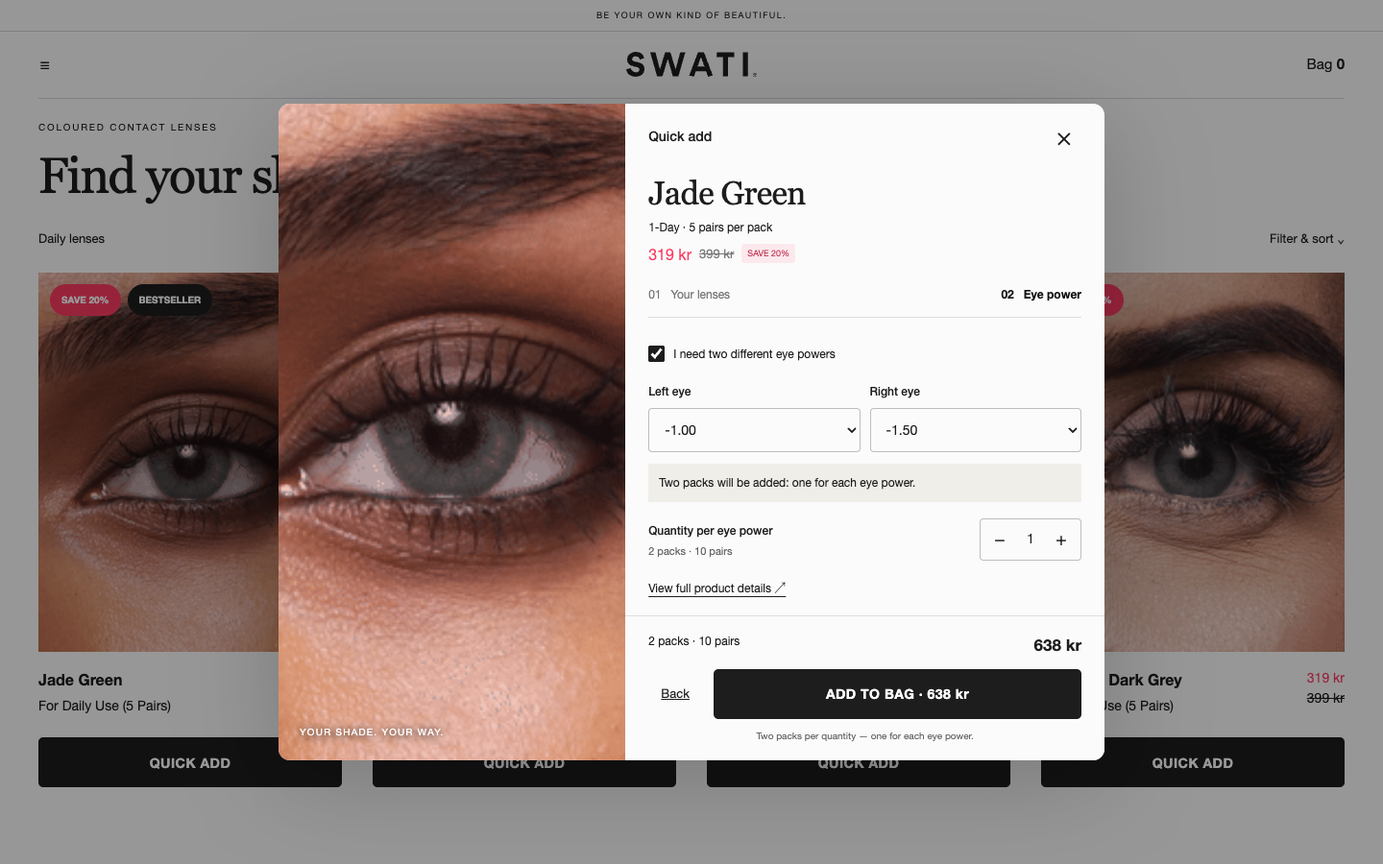
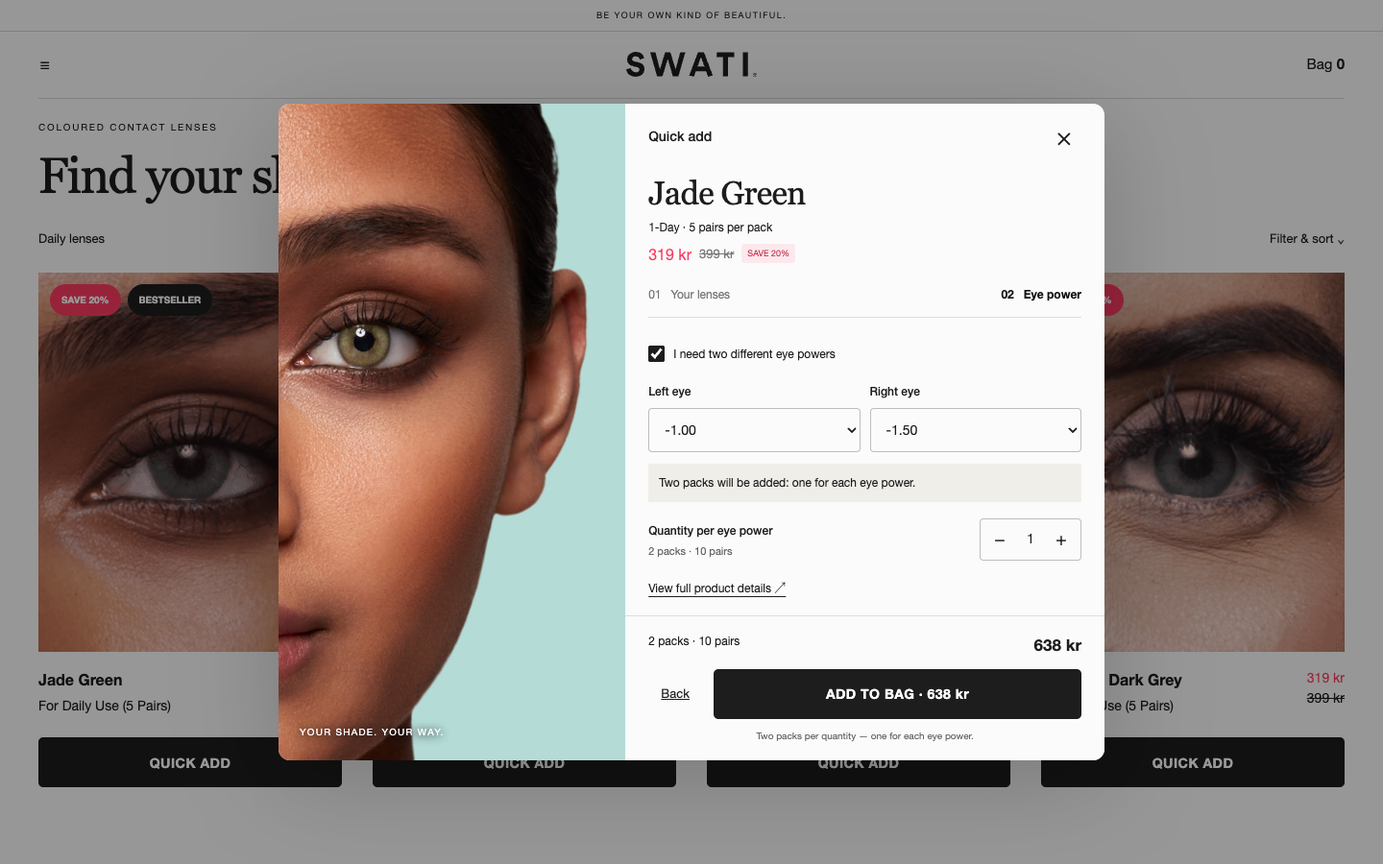
Use half-face hover photos in concept C and badge six-month option

Changed region(s): [[0.1875, 0.0933, 0.4688, 0.9022]]

diff --git a/index.html b/index.html
@@ -4,20 +4,20 @@
 
 html{scroll-behavior:smooth;scroll-padding-top:90px}.jumpnav{position:sticky;top:0;z-index:20;display:flex;justify-content:center;gap:7px;padding:12px 20px;background:#f4f3eff5;backdrop-filter:blur(12px);border-bottom:1px solid #d6d5cf;overflow-x:auto}.jumpnav a{white-space:nowrap;text-decoration:none;font-size:12px;padding:8px 12px;border-radius:5px}.jumpnav a:hover,.jumpnav a:focus-visible{background:#e5eadf}.jumpnav span{color:#777;font-size:10px;margin-right:5px}.section-heading{display:flex;justify-content:space-between;align-items:center;border-top:1px solid #cecec7;padding-top:35px;margin-bottom:10px}.section-heading h2{margin-top:8px}.section-heading p{font-size:12px;color:#666}.hero{padding-top:30px}.confirmation{display:grid;grid-template-columns:1fr 2fr;gap:35px;align-items:center;margin-top:35px}.confirmation img{width:100%;border-radius:12px;border:1px solid #ddd}.confirmation>div:last-child{max-width:520px}.confirmation .launch{display:inline-block}main img{cursor:zoom-in}.zoom{padding:48px 10px 10px;border:0;border-radius:10px;max-width:96vw;max-height:96dvh;background:#f4f3ef}.zoom::backdrop{background:#000b}.zoom img{display:block;max-width:91vw;max-height:83dvh;width:auto;height:auto;object-fit:contain}.zoom button{position:absolute;top:8px;right:12px;background:transparent;border:0;font:28px Arial;cursor:pointer;width:36px;height:36px}.zoom p{position:absolute;top:13px;left:16px;font-size:12px;margin:0}.section .desktop{margin-bottom:40px}a:focus-visible,button:focus-visible{outline:3px solid #56796c;outline-offset:3px}
 @media(max-width:800px){.jumpnav{justify-content:flex-start;padding:9px 12px}.jumpnav a{font-size:11px;padding:6px 8px}.hero{padding-top:20px}.section-heading{display:block}.confirmation{grid-template-columns:1fr}.confirmation img{max-width:390px}.cards{gap:24px 16px}.state-grid{gap:35px}.zoom img{max-width:88vw}.zoom p{max-width:75%;white-space:nowrap;overflow:hidden;text-overflow:ellipsis}}
-</style></head><body><header><img src="assets/logo.svg" alt="SWATI"><span class="kicker">CRO EXPLORATION / 18 SEPTEMBER 2026</span></header><nav class="jumpnav" aria-label="Showcase sections"><a href="#mobile-concepts"><span>01</span> Mobile popups</a><a href="#card-buttons"><span>02</span> Card buttons</a><a href="#desktop-layouts"><span>03</span> Desktop popups</a><a href="#selection-states"><span>04</span> Selection states</a><a href="#references"><span>05</span> References</a><a href="#test-plan"><span>06</span> Test recommendation</a></nav><main>
+</style></head><body><header><img src="assets/logo.svg?v=3" alt="SWATI"><span class="kicker">CRO EXPLORATION / 18 SEPTEMBER 2026</span></header><nav class="jumpnav" aria-label="Showcase sections"><a href="#mobile-concepts"><span>01</span> Mobile popups</a><a href="#card-buttons"><span>02</span> Card buttons</a><a href="#desktop-layouts"><span>03</span> Desktop popups</a><a href="#selection-states"><span>04</span> Selection states</a><a href="#references"><span>05</span> References</a><a href="#test-plan"><span>06</span> Test recommendation</a></nav><main>
 <div class="hero"><div><div class="kicker">Collection → Configuration → Bag</div><h1>A shorter path<br>to their shade.</h1><p class="intro">Three quick-add experiences. One familiar SWATI card. All the essential lens choices, without leaving the collection.</p></div><aside class="recommend"><div class="kicker">Recommended first test</div><b>Current journey vs. compact selector</b><p>Replace “Shop now” with “Quick add”. Keep the image and name linked to the PDP. Test completed purchases and revenue, not just more adds.</p><a href="#test-plan">See the test recommendation ↓</a></aside></div>
 <section id="mobile-concepts" class="mobile-section"><div class="section-heading"><div><div class="kicker">01 / Mobile popups</div><h2>All three alternatives.</h2></div><p>Click a mockup to enlarge it.<br>Use “Try concept” to explore the flow.</p></div><div class="concepts">
-<article class="concept"><div class="caption"><span class="number">A</span><h3>Compact selector</h3><p>A bottom sheet on mobile. A centred modal on desktop. The clearest starting point.</p></div><a href="prototype.html?concept=compact&open=1"><img class="screen" src="previews/compact-mobile.png" alt="Concept A: compact mobile quick-add selector"></a><div class="actions"><a class="launch" href="prototype.html?concept=compact">Try concept A →</a><a href="previews/compact-desktop.png">Desktop</a><a href="prototype.html?concept=compact&open=1&state=dual">Two powers</a></div></article>
-<article class="concept"><div class="caption"><span class="number">B</span><h3>Roomier drawer</h3><p>More space to review the choices. A side drawer on desktop and a tall sheet on mobile.</p></div><a href="prototype.html?concept=drawer&open=1"><img class="screen" src="previews/drawer-mobile.png" alt="Concept B: tall mobile product drawer"></a><div class="actions"><a class="launch" href="prototype.html?concept=drawer">Try concept B →</a><a href="previews/drawer-desktop.png">Desktop</a><a href="prototype.html?concept=drawer&open=1&state=dual">Two powers</a></div></article>
-<article class="concept"><div class="caption"><span class="number">C</span><h3>Guided selection</h3><p>Choose lenses, then eye power. Less to process at once, with one extra step to complete.</p></div><a href="prototype.html?concept=guided&open=1"><img class="screen" src="previews/guided-mobile.png" alt="Concept C: first step of guided lens selection"></a><div class="actions"><a class="launch" href="prototype.html?concept=guided">Try concept C →</a><a href="previews/guided-desktop.png">Desktop</a><a href="prototype.html?concept=guided&open=1&state=ready">Step two</a></div></article>
+<article class="concept"><div class="caption"><span class="number">A</span><h3>Compact selector</h3><p>A bottom sheet on mobile. A centred modal on desktop. The clearest starting point.</p></div><a href="prototype.html?v=3&concept=compact&open=1"><img class="screen" src="previews/compact-mobile.png?v=3" alt="Concept A: compact mobile quick-add selector"></a><div class="actions"><a class="launch" href="prototype.html?v=3&concept=compact">Try concept A →</a><a href="previews/compact-desktop.png?v=3">Desktop</a><a href="prototype.html?v=3&concept=compact&open=1&state=dual">Two powers</a></div></article>
+<article class="concept"><div class="caption"><span class="number">B</span><h3>Roomier drawer</h3><p>More space to review the choices. A side drawer on desktop and a tall sheet on mobile.</p></div><a href="prototype.html?v=3&concept=drawer&open=1"><img class="screen" src="previews/drawer-mobile.png?v=3" alt="Concept B: tall mobile product drawer"></a><div class="actions"><a class="launch" href="prototype.html?v=3&concept=drawer">Try concept B →</a><a href="previews/drawer-desktop.png?v=3">Desktop</a><a href="prototype.html?v=3&concept=drawer&open=1&state=dual">Two powers</a></div></article>
+<article class="concept"><div class="caption"><span class="number">C</span><h3>Guided selection</h3><p>Choose lenses, then eye power. Less to process at once, with one extra step to complete.</p></div><a href="prototype.html?v=3&concept=guided&open=1"><img class="screen" src="previews/guided-mobile.png?v=3" alt="Concept C: first step of guided lens selection"></a><div class="actions"><a class="launch" href="prototype.html?v=3&concept=guided">Try concept C →</a><a href="previews/guided-desktop.png?v=3">Desktop</a><a href="prototype.html?v=3&concept=guided&open=1&state=ready">Step two</a></div></article>
 </div></section>
-<section class="section" id="card-buttons"><div class="kicker">02 / Card buttons</div><h2>Three ways to open it.</h2><p>Choose the popup and its entry separately. The three popup concepts above all use the same labelled button.</p><div class="cards"><div class="current"><h3>Control · current card</h3><img src="assets/current-card.png" alt="User-supplied current SWATI product card"><p>Shop now opens the PDP. Supplied screenshot.</p></div><div><h3>1 · Replace the button</h3><img src="previews/trigger-replace.png" alt="Quick Add primary button"><p>Highest visibility, same footprint. Image and title retain the PDP route.</p><a href="prototype.html?trigger=replace">Try this entry ↗</a></div><div><h3>2 · Keep both actions</h3><img src="previews/trigger-split.png" alt="Shop Now and Quick Add buttons"><p>Both journeys are explicit. Adds visual weight and mobile card height.</p><a href="prototype.html?trigger=split">Try this entry ↗</a></div><div><h3>3 · Add a permanent plus</h3><img src="previews/trigger-plus.png" alt="Plus button over product photo with Shop Now below"><p>Keeps the current CTA. Less explicit, and places a control over the eye photo.</p><a href="prototype.html?trigger=plus">Try this entry ↗</a></div></div></section>
-<section class="section" id="desktop-layouts"><div class="kicker">03 / Desktop popups</div><h2>Same choices. Different amount of space.</h2><h3>A · Centred selector</h3><img class="desktop" src="previews/compact-desktop.png" alt="Compact desktop modal"><h3>B · Side drawer</h3><img class="desktop" src="previews/drawer-desktop.png" alt="Desktop quick-add drawer"><h3>C · Two-step modal</h3><img class="desktop" src="previews/guided-desktop.png" alt="Wide guided desktop modal with eye image"></section>
-<section class="section" id="selection-states"><div class="kicker">04 / Selection states</div><h2>Two powers means two packs.</h2><p>Show that consequence before adding. Keep the total visible, and confirm exactly what went into the bag.</p><div class="state-grid"><div><h3>A · Separate eye powers</h3><img src="previews/compact-mobile-dual.png" alt="Two eye powers and a combined 638 kr total"></div><div><h3>B · Separate eye powers</h3><img src="previews/drawer-mobile-dual.png" alt="Drawer showing separate left and right eye powers"></div><div><h3>C · Second step</h3><img src="previews/guided-mobile-dual.png" alt="Guided selection eye-power step"></div></div><div class="confirmation"><div><h3>After adding · Confirmation</h3><img src="previews/compact-mobile-success.png" alt="Mock confirmation showing four packs after quantity changed to two per eye"></div><div><h3>Review before returning to the collection.</h3><p>Every concept supports separate left and right powers. The summary shows the selected shade, duration, pack count and combined total.</p><p>This example follows increasing quantity to two per eye: four packs total.</p><a class="launch" href="prototype.html?concept=compact&open=1&state=dual">Try the two-power flow →</a></div></div><p class="note">Confirmation example follows increasing quantity to two per eye: four packs total. Production should hand off to SWATI’s existing cart drawer. This prototype never changes a real cart.</p></section>
-<section class="section" id="references"><div class="kicker">05 / Reference takeaways</div><h2>Borrow the right behaviour.</h2><div class="table"><div><h3>Meridian · options first</h3><p>The sampled trimmer opens a product modal with colour choices before adding. This is the closest match to SWATI’s need.</p><a href="https://www.meridiangrooming.com/collections/trimmers">Reference ↗</a> · <a href="research/meridian-quick.png">Observed modal</a></div><div><h3>Javvy · immediate feedback</h3><p>The sampled item goes straight into a cart drawer. Borrow its clear confirmation; SWATI needs eye-power selection before that point.</p><a href="https://javvycoffee.com/">Reference ↗</a> · <a href="research/javvy-quick.png">Observed drawer</a></div><div><h3>True Classic · clear choices</h3><p>The rendered configurator exposes size, length and pack choices, and asks for a size before adding. Its collection popup was not separately verified.</p><a href="https://www.trueclassictees.com/">Reference ↗</a></div></div></section>
+<section class="section" id="card-buttons"><div class="kicker">02 / Card buttons</div><h2>Three ways to open it.</h2><p>Choose the popup and its entry separately. The three popup concepts above all use the same labelled button.</p><div class="cards"><div class="current"><h3>Control · current card</h3><img src="assets/current-card.png?v=3" alt="User-supplied current SWATI product card"><p>Shop now opens the PDP. Supplied screenshot.</p></div><div><h3>1 · Replace the button</h3><img src="previews/trigger-replace.png?v=3" alt="Quick Add primary button"><p>Highest visibility, same footprint. Image and title retain the PDP route.</p><a href="prototype.html?v=3&trigger=replace">Try this entry ↗</a></div><div><h3>2 · Keep both actions</h3><img src="previews/trigger-split.png?v=3" alt="Shop Now and Quick Add buttons"><p>Both journeys are explicit. Adds visual weight and mobile card height.</p><a href="prototype.html?v=3&trigger=split">Try this entry ↗</a></div><div><h3>3 · Add a permanent plus</h3><img src="previews/trigger-plus.png?v=3" alt="Plus button over product photo with Shop Now below"><p>Keeps the current CTA. Less explicit, and places a control over the eye photo.</p><a href="prototype.html?v=3&trigger=plus">Try this entry ↗</a></div></div></section>
+<section class="section" id="desktop-layouts"><div class="kicker">03 / Desktop popups</div><h2>Same choices. Different amount of space.</h2><h3>A · Centred selector</h3><img class="desktop" src="previews/compact-desktop.png?v=3" alt="Compact desktop modal"><h3>B · Side drawer</h3><img class="desktop" src="previews/drawer-desktop.png?v=3" alt="Desktop quick-add drawer"><h3>C · Two-step modal</h3><img class="desktop" src="previews/guided-desktop.png?v=3" alt="Wide guided desktop modal with eye image"></section>
+<section class="section" id="selection-states"><div class="kicker">04 / Selection states</div><h2>Two powers means two packs.</h2><p>Show that consequence before adding. Keep the total visible, and confirm exactly what went into the bag.</p><div class="state-grid"><div><h3>A · Separate eye powers</h3><img src="previews/compact-mobile-dual.png?v=3" alt="Two eye powers and a combined 638 kr total"></div><div><h3>B · Separate eye powers</h3><img src="previews/drawer-mobile-dual.png?v=3" alt="Drawer showing separate left and right eye powers"></div><div><h3>C · Second step</h3><img src="previews/guided-mobile-dual.png?v=3" alt="Guided selection eye-power step"></div></div><div class="confirmation"><div><h3>After adding · Confirmation</h3><img src="previews/compact-mobile-success.png?v=3" alt="Mock confirmation showing four packs after quantity changed to two per eye"></div><div><h3>Review before returning to the collection.</h3><p>Every concept supports separate left and right powers. The summary shows the selected shade, duration, pack count and combined total.</p><p>This example follows increasing quantity to two per eye: four packs total.</p><a class="launch" href="prototype.html?v=3&concept=compact&open=1&state=dual">Try the two-power flow →</a></div></div><p class="note">Confirmation example follows increasing quantity to two per eye: four packs total. Production should hand off to SWATI’s existing cart drawer. This prototype never changes a real cart.</p></section>
+<section class="section" id="references"><div class="kicker">05 / Reference takeaways</div><h2>Borrow the right behaviour.</h2><div class="table"><div><h3>Meridian · options first</h3><p>The sampled trimmer opens a product modal with colour choices before adding. This is the closest match to SWATI’s need.</p><a href="https://www.meridiangrooming.com/collections/trimmers">Reference ↗</a> · <a href="research/meridian-quick.png?v=3">Observed modal</a></div><div><h3>Javvy · immediate feedback</h3><p>The sampled item goes straight into a cart drawer. Borrow its clear confirmation; SWATI needs eye-power selection before that point.</p><a href="https://javvycoffee.com/">Reference ↗</a> · <a href="research/javvy-quick.png?v=3">Observed drawer</a></div><div><h3>True Classic · clear choices</h3><p>The rendered configurator exposes size, length and pack choices, and asks for a size before adding. Its collection popup was not separately verified.</p><a href="https://www.trueclassictees.com/">Reference ↗</a></div></div></section>
 <section class="section two" id="test-plan"><div><div class="kicker">06 / Test recommendation</div><h2>Start with A.</h2><p>50/50 visitor assignment. Current Shop now journey against the compact quick-add journey. Keep photography, badges, pricing and product order the same between arms.</p><p><b>Primary:</b> revenue per eligible visitor.<br><b>Read alongside:</b> order conversion, AOV, abandonment, errors and mobile performance.</p><p>Set the sample size and stopping rule using the store’s baseline. An increase in quick-add usage alone is not a win.</p></div><div><div class="kicker">Implementation</div><h2>Preserve the PDP logic.</h2><p>Shade and duration resolve linked products; eye power selects the variant. Two powers create two packs. Price, stock and availability must update with the selection.</p><p>Run the experiment through Intelligems on global first. A winning treatment gets a proper theme implementation after the test.</p><a href="#mobile-concepts">Back to the mobile concepts ↑</a></div></section>
 <p class="note">Design exploration, not a live store build. Real SWATI photography and supplied card reference; no generated lens colours. Prices are snapshots. Fonts are approximations and the collection header is simplified. Availability, network error handling and live cart integration remain implementation work.</p>
-</main><footer>SWATI / Quick add exploration · Three responsive prototypes, three card entries, desktop and mobile states. Review showcase only · Store unchanged · Build 2026-09-18.2</footer><script>if(new URLSearchParams(location.search).has('overview'))document.body.classList.add('overview-only');</script><dialog class="zoom" aria-label="Enlarged mockup"><p></p><button aria-label="Close enlarged mockup">×</button><img alt=""></dialog><script>
+</main><footer>SWATI / Quick add exploration · Three responsive prototypes, three card entries, desktop and mobile states. Review showcase only · Store unchanged · Build 2026-09-18.3</footer><script>if(new URLSearchParams(location.search).has('overview'))document.body.classList.add('overview-only');</script><dialog class="zoom" aria-label="Enlarged mockup"><p></p><button aria-label="Close enlarged mockup">×</button><img alt=""></dialog><script>
 const zoom=document.querySelector('.zoom');let prior;
 document.querySelectorAll('main img').forEach(img=>{img.tabIndex=0;img.setAttribute('role','button');img.setAttribute('aria-label','Enlarge: '+img.alt);const show=e=>{e.preventDefault();prior=img;zoom.querySelector('img').src=img.src;zoom.querySelector('img').alt=img.alt;zoom.querySelector('p').textContent=img.alt;zoom.showModal();document.body.style.overflow='hidden'};img.addEventListener('click',show);img.addEventListener('keydown',e=>{if(e.key==='Enter'||e.key===' ')show(e)})});
 zoom.querySelector('button').onclick=()=>zoom.close();zoom.addEventListener('click',e=>{if(e.target===zoom)zoom.close()});zoom.addEventListener('close',()=>{document.body.style.overflow='';prior?.focus()});

diff --git a/prototype.html b/prototype.html
@@ -1,14 +1,14 @@
 <!doctype html>
-<html lang="en"><head><meta charset="utf-8"><meta name="viewport" content="width=device-width,initial-scale=1"><meta name="robots" content="noindex,nofollow"><title>SWATI — Quick add concept</title><link rel="stylesheet" href="style.css"></head>
+<html lang="en"><head><meta charset="utf-8"><meta name="viewport" content="width=device-width,initial-scale=1"><meta name="robots" content="noindex,nofollow"><title>SWATI — Quick add concept</title><link rel="stylesheet" href="style.css?v=3"></head>
 <body><div class="demo">DESIGN PROTOTYPE · No orders are placed <a href="index.html">All concepts ↗</a></div>
 <div class="announcement">BE YOUR OWN KIND OF BEAUTIFUL.</div>
-<header class="storehead"><span>☰</span><img src="assets/logo.svg" alt="SWATI"><span>Bag <b id="count">0</b></span></header>
+<header class="storehead"><span>☰</span><img src="assets/logo.svg?v=3" alt="SWATI"><span>Bag <b id="count">0</b></span></header>
 <main id="collection"><div class="collection-title"><p class="eyebrow">COLOURED CONTACT LENSES</p><h1>Find your shade.</h1><div class="filter"><span>Daily lenses</span><span>Filter & sort ⌄</span></div></div><div class="grid" id="grid"></div></main>
-<dialog id="quick" aria-labelledby="qtitle"><div class="dialog-layout"><div class="editorial"><img id="largeimage" src="assets/jade.png" alt="Jade Green lenses on an eye"><span>YOUR SHADE. YOUR WAY.</span></div><div class="panel"><header class="panelhead"><span id="panel-label">Quick add</span><button class="close" aria-label="Close quick add">×</button></header><div class="scrollarea" id="scrollarea"><div class="productsummary"><img id="smallimage" src="assets/jade.png" alt="Jade Green"><div><h2 id="qtitle">Jade Green</h2><p id="subline">1-Day · 5 pairs per pack</p><div class="price"><span id="unitprice">319 kr</span> <s id="compare">399 kr</s> <span class="saving">SAVE 20%</span></div></div></div>
+<dialog id="quick" aria-labelledby="qtitle"><div class="dialog-layout"><div class="editorial"><img id="largeimage" src="assets/jade.png?v=3" alt="Jade Green lenses on an eye"><span>YOUR SHADE. YOUR WAY.</span></div><div class="panel"><header class="panelhead"><span id="panel-label">Quick add</span><button class="close" aria-label="Close quick add">×</button></header><div class="scrollarea" id="scrollarea"><div class="productsummary"><img id="smallimage" src="assets/jade.png?v=3" alt="Jade Green"><div><h2 id="qtitle">Jade Green</h2><p id="subline">1-Day · 5 pairs per pack</p><div class="price"><span id="unitprice">319 kr</span> <s id="compare">399 kr</s> <span class="saving">SAVE 20%</span></div></div></div>
 <div class="stepnav" hidden><span id="step1tag">01 &nbsp; Your lenses</span><span id="step2tag">02 &nbsp; Eye power</span></div>
 <section id="lensstep"><div class="field"><label for="shade">Shade</label><select id="shade"></select></div><fieldset class="field"><legend>Lens duration</legend><select id="duration-select" aria-label="Lens duration"></select><div class="durations" id="durations"></div></fieldset></section>
 <section id="powerstep"><div class="field"><label for="power">Eye power</label><select id="power"></select></div><label class="checkbox"><input type="checkbox" id="dual">I need two different eye powers</label><div class="dualfields" hidden><div><label for="left">Left eye</label><select id="left"></select></div><div><label for="right">Right eye</label><select id="right"></select></div></div><p id="packnote" class="packnote" hidden>Two packs will be added: one for each eye power.</p><div class="quantityrow"><div><b id="qtylabel">Quantity</b><small id="qtyhelp">1 pack · 5 pairs</small></div><div class="stepper"><button id="minus" aria-label="Decrease quantity">−</button><output id="qty">1</output><button id="plus" aria-label="Increase quantity">+</button></div></div></section>
 <p class="error" role="alert" id="error" hidden>Please choose your eye power.</p><a id="details" class="detail-link" href="https://www.swati.com/products/green-jade-daily-lenses">View full product details ↗</a></div>
 <footer class="buyfooter"><div class="summaryline"><span id="summary">1 pack · 5 pairs</span><b id="total">319 kr</b></div><div class="footerbuttons"><button class="back" hidden>Back</button><button class="primary" id="add">CHOOSE EYE POWER</button></div><small id="footerhint">Choose your options to add to bag.</small></footer></div></div></dialog>
 <dialog id="success" aria-labelledby="success-title"><header class="panelhead"><span>✓ Added to bag</span><button class="close" aria-label="Close confirmation">×</button></header><h2 id="success-title">Your shade is in the bag.</h2><div id="receipt"></div><p class="prototype-note">Prototype confirmation — no live cart is changed.</p><button class="primary" id="continue">CONTINUE SHOPPING</button></dialog>
-<script src="app.js"></script></body></html>
+<script src="app.js?v=3"></script></body></html>

diff --git a/app.js b/app.js
@@ -14,12 +14,12 @@ $('#grid').innerHTML=shades.slice(0,4).map((s,i)=>`<article class="card"><div cl
 for(const id of ['power','left','right']){$('#'+id).innerHTML='<option value="">Select eye power</option>'+powers.map(v=>`<option value="${v}">${v==='0.00'?'0.00 · No correction':v}</option>`).join('');$('#'+id).onchange=e=>{state[id]=e.target.value;$('#error').hidden=true;update()}}
 $('#duration-select').innerHTML=durations.map((d,i)=>`<option value="${i}">${d.name} (${d.pack})</option>`).join('');
 $('#duration-select').onchange=e=>{state.duration=Number(e.target.value);if(state.duration===0&&shades.findIndex(s=>s[0]===state.shade)>8)state.shade='jade';state.power=state.left=state.right='';update()};
-$('#durations').innerHTML=durations.map((d,i)=>`<button class="duration" data-duration="${i}" aria-pressed="${i===0}">${d.name}<small>${d.pack}</small></button>`).join('');
+$('#durations').innerHTML=durations.map((d,i)=>`<button class="duration" data-duration="${i}" aria-pressed="${i===0}">${i===2?'<span class="choice-badge">Best choice</span>':''}${d.name}<small>${d.pack}</small></button>`).join('');
 document.querySelectorAll('[data-duration]').forEach(b=>b.onclick=()=>{state.duration=Number(b.dataset.duration);if(state.duration===0&&shades.findIndex(s=>s[0]===state.shade)>8)state.shade='jade';state.power=state.left=state.right='';update()});
 $('#shade').onchange=e=>{state.shade=e.target.value;state.power=state.left=state.right='';update()};
 $('#dual').onchange=e=>{state.dual=e.target.checked;$('#error').hidden=true;update()};
 $('#plus').onclick=()=>{state.qty++;update()};$('#minus').onclick=()=>{state.qty=Math.max(1,state.qty-1);update()};
-function update(){const s=product(),d=durations[state.duration];$('#qtitle').textContent=s[1];$('#subline').textContent=`${d.name} · ${d.pack} per pack`;$('#unitprice').textContent=money(d.price);$('#compare').textContent=money(d.compare);for(const id of ['smallimage','largeimage']){$('#'+id).src=`assets/${s[0]}.png`;$('#'+id).alt=s[1];$('#'+id).style.objectFit=shades.indexOf(s)>3?'contain':'cover'}
+function update(){const s=product(),d=durations[state.duration];$('#qtitle').textContent=s[1];$('#subline').textContent=`${d.name} · ${d.pack} per pack`;$('#unitprice').textContent=money(d.price);$('#compare').textContent=money(d.compare);for(const id of ['smallimage','largeimage']){const halfFace=concept==='guided'&&shades.indexOf(s)<9;$('#'+id).src=halfFace?`assets/${s[0]}-half-face.jpg`:`assets/${s[0]}.png`;$('#'+id).alt=halfFace?`${s[1]} half-face photograph`:s[1];$('#'+id).style.objectFit=halfFace||shades.indexOf(s)<4?'cover':'contain'}
 $('#shade').innerHTML=shades.filter((s,i)=>state.duration!==0||i<9).map(s=>`<option value="${s[0]}">${s[1]}</option>`).join('');$('#shade').value=state.shade;$('#duration-select').value=state.duration;
 document.querySelectorAll('[data-duration]').forEach(b=>b.setAttribute('aria-pressed',Number(b.dataset.duration)===state.duration));
 $('#dual').checked=state.dual;$('.dualfields').hidden=!state.dual;$('#packnote').hidden=!state.dual;$('#power').closest('.field').hidden=state.dual;

diff --git a/style.css b/style.css
@@ -2,3 +2,5 @@
 @media(max-width:650px){.demo{font-size:9px;padding:6px 12px}.storehead{height:65px;margin:0 16px}.storehead img{width:103px}.storehead span{font-size:12px}.announcement{font-size:8px;padding:8px}main{padding:0 16px 30px}.collection-title{padding:25px 0 20px}h1{font-size:38px}.eyebrow{font-size:8px}.filter{margin-top:20px;font-size:12px}.grid{grid-template-columns:repeat(2,1fr);gap:26px 12px}.badges{top:6px;left:6px;gap:4px}.badge{padding:5px 7px;font-size:7px}.meta{font-size:10px;margin:11px 0 14px}.meta strong{font-size:12px}.meta p{font-size:10px}.card .primary{height:44px;font-size:11px}.splitactions{grid-template-columns:1fr}.secondary{height:38px;font-size:10px}.card .details-under{font-size:10px}.cardprice{font-size:11px}#quick{margin:auto 0 0;width:100%;max-width:100%;max-height:calc(100dvh - 36px);border-radius:16px 16px 0 0}.panelhead{padding:12px 20px}.scrollarea{padding:18px 20px}.productsummary{margin-bottom:21px;gap:13px}.productsummary img{width:67px;height:80px}h2{font-size:29px}.price{font-size:15px}.productsummary p{font-size:11px}.field{margin-bottom:17px}.buyfooter{padding:15px 20px 19px}.drawer #quick{height:calc(100dvh - 18px);max-height:calc(100dvh - 18px);margin:auto 0 0;border-radius:16px 16px 0 0}.drawer .panelhead{padding:12px 20px}.drawer .scrollarea{padding:18px 20px}.drawer .buyfooter{padding:15px 20px 19px}.drawer .productsummary img{width:95px;height:113px}.drawer .duration{min-height:76px}.guided .editorial{display:none}.guided .productsummary img{display:block}.guided .scrollarea{min-height:0}.guided .stepnav{margin-bottom:23px}.guided .panelhead{padding-bottom:7px}.guided #quick{width:100%}.guided .buyfooter{margin-top:8px}.guided .productsummary{margin-bottom:23px}}
 
 #duration-select{display:none}.compact #duration-select{display:block}.compact #durations{display:none}.compact #lensstep{display:grid;grid-template-columns:1fr 1fr;gap:12px}.compact #lensstep .field{min-width:0}.compact .scrollarea{padding-top:18px}.compact .productsummary{margin-bottom:21px}
+
+.duration{position:relative}.durations{padding-top:12px}.choice-badge{position:absolute;top:-12px;left:50%;transform:translateX(-50%);padding:3px 9px;border-radius:20px;background:var(--ink);color:#fff;font-size:10px;font-weight:600;line-height:16px;white-space:nowrap}.duration[aria-pressed=true] .choice-badge{top:-13px}
